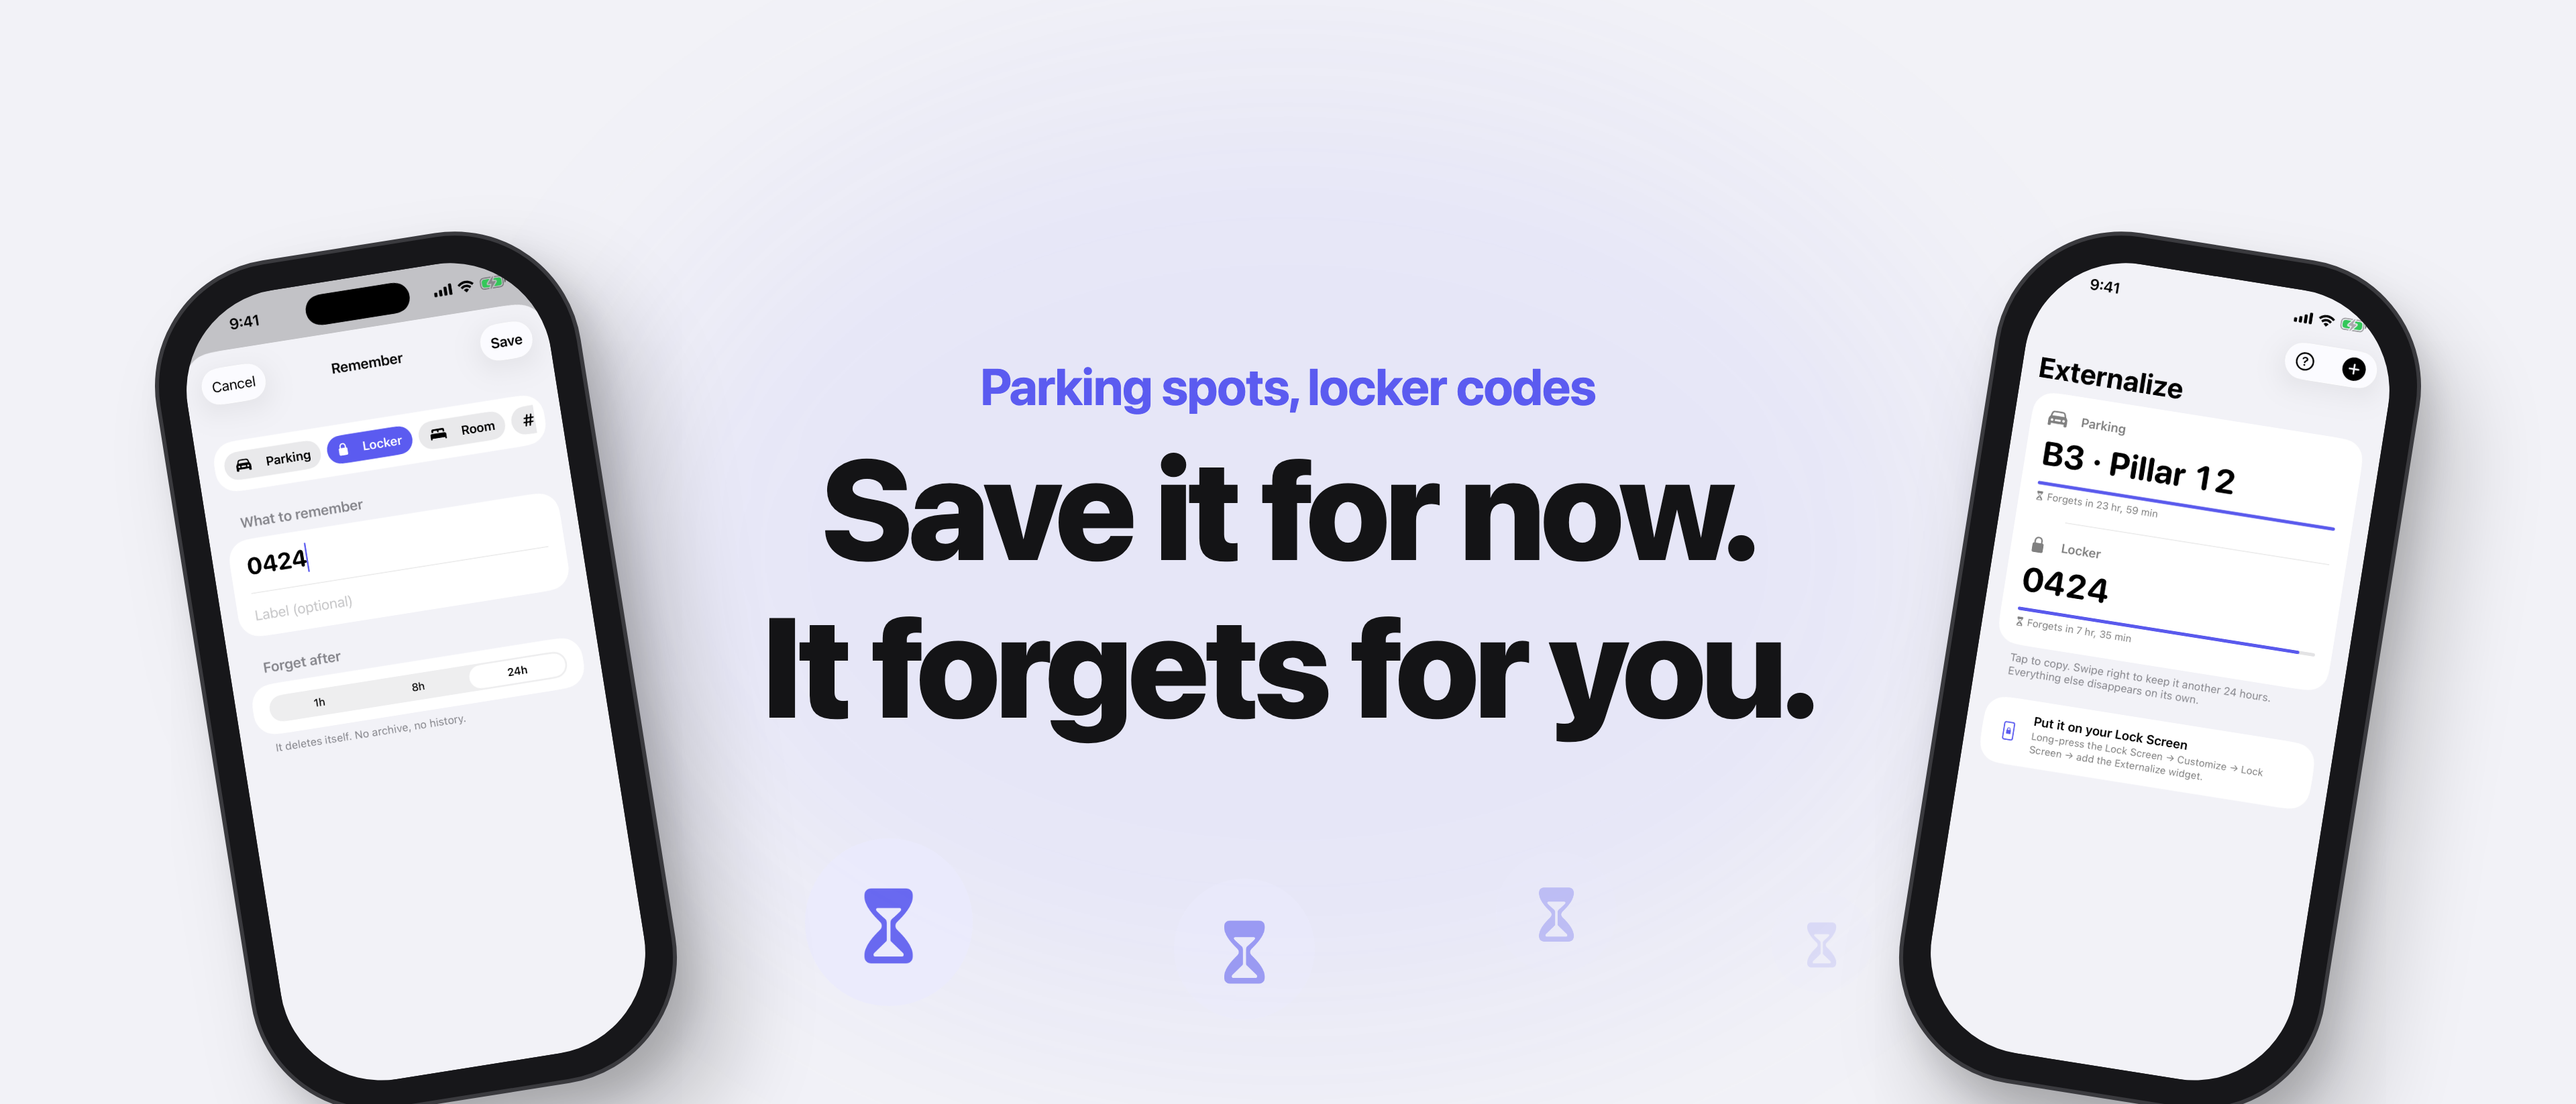
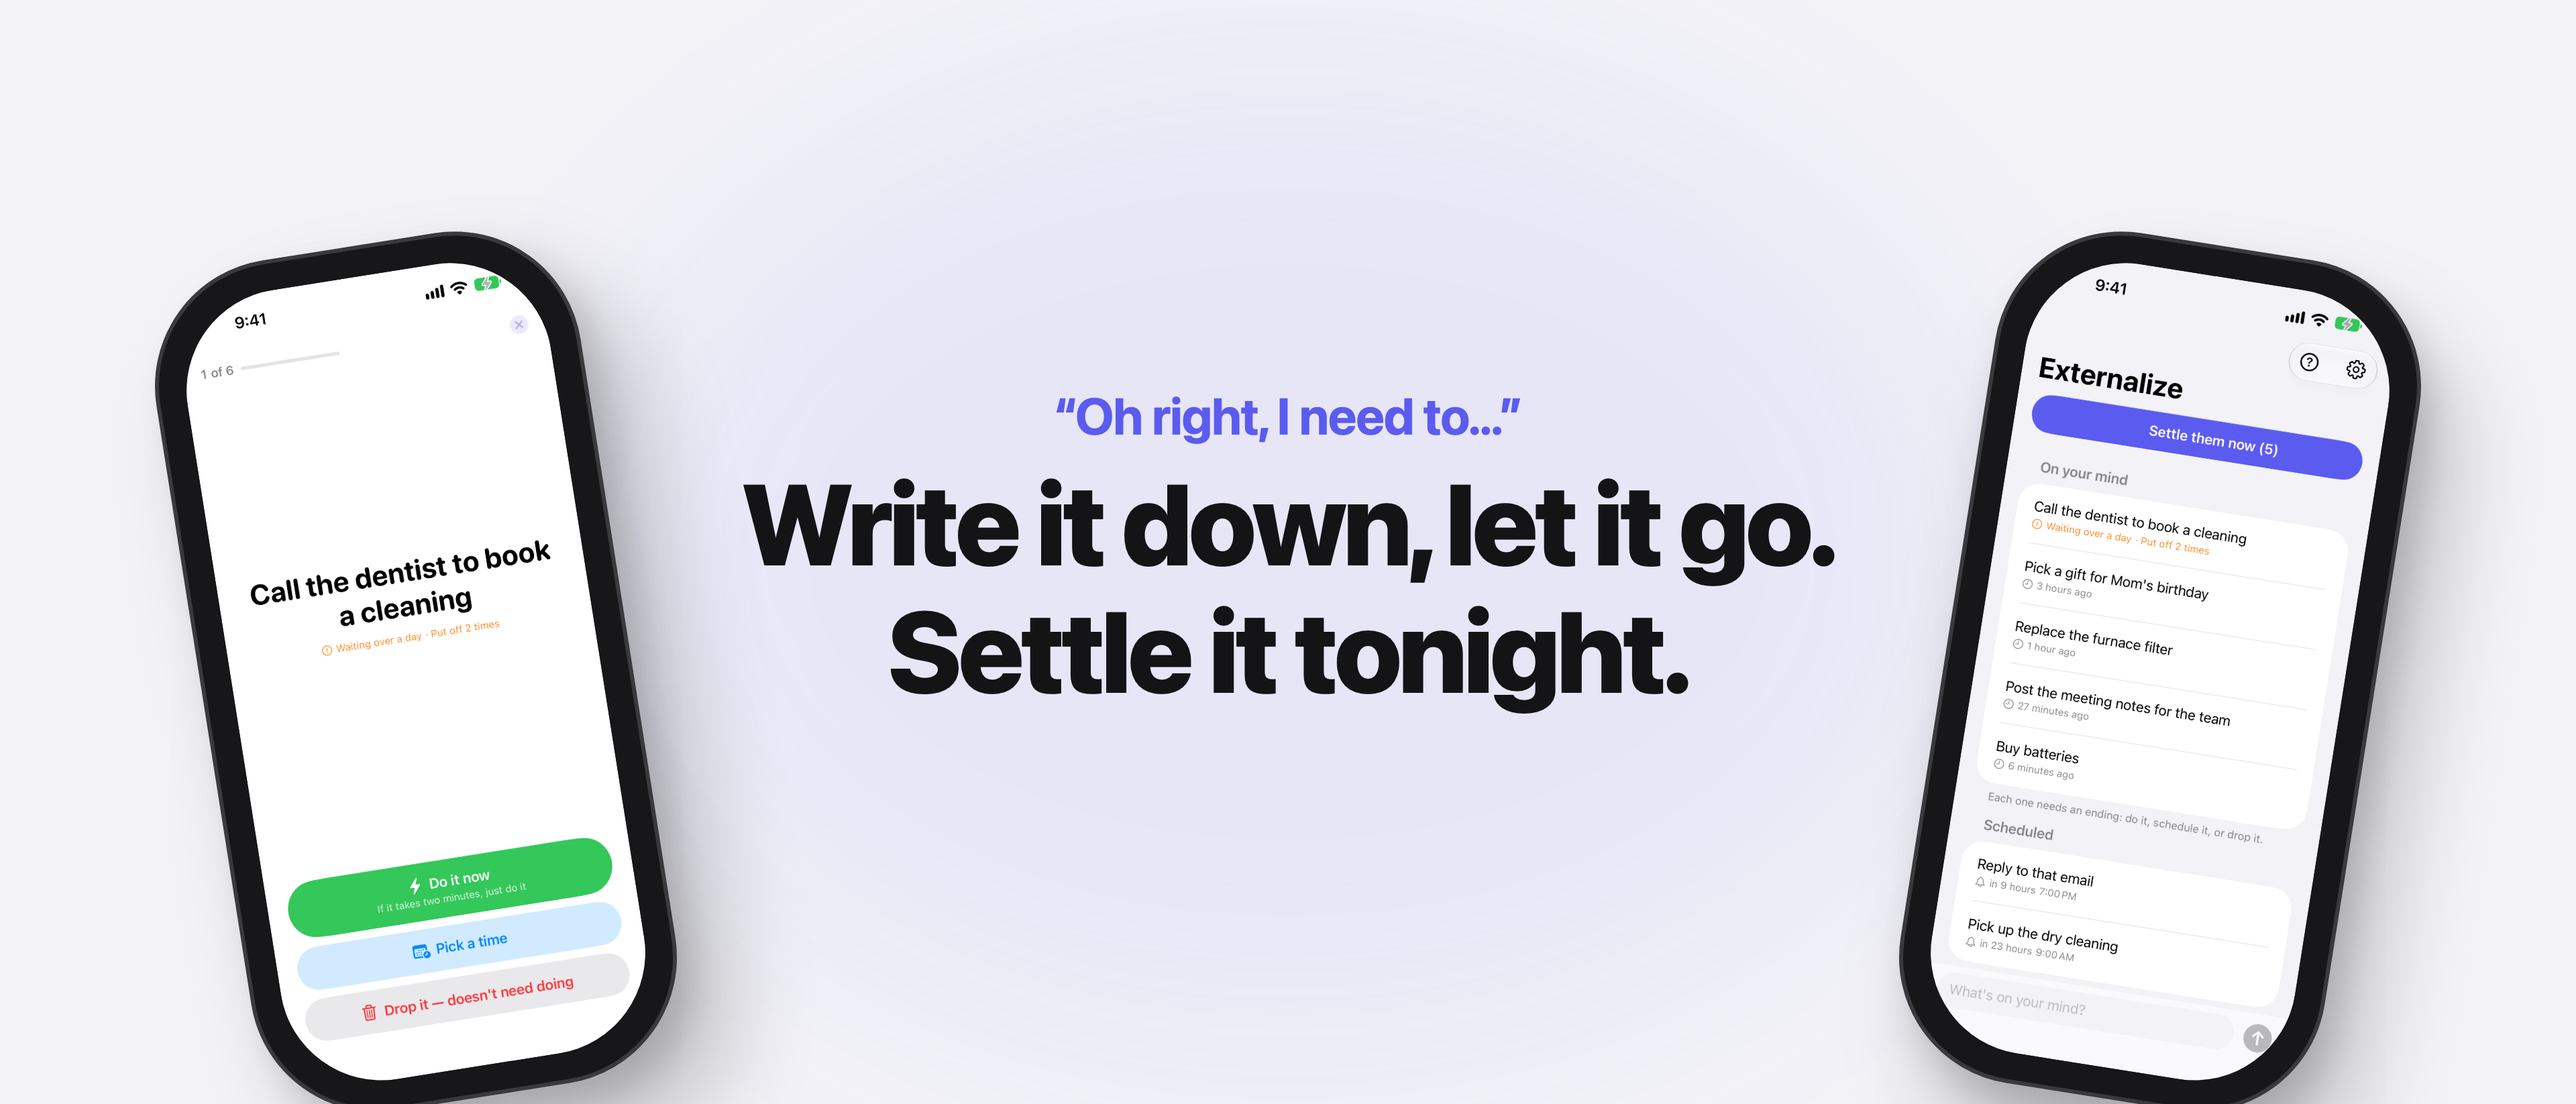
chore(배포): 뇌모리 1.0 자동 배포 준비 — 새 개념(적고 저녁에 끝내기)에 맞춰 한국어 · 영어
앱이 '24시간 뒤 사라지는 메모'에서 '적어서 꺼내 두고 저녁에 하나씩 끝내기'로 바뀐 데 맞춰
스토어 문구(이름·부제·키워드·프로모션·설명)와 1.0 릴리즈노트를 ko · en-US 로 새로 쓴다.
영어 이름의 한글을 빼고(Externalize: Brain Dump), 스크린샷 6장을 두 언어 화면으로 다시 찍어
마케팅 그림과 헤더·검색 결과 그림을 새 개념으로 다시 만든다.
deploy.env(LOCALES=ko,en)와 Release 빌드 게이트를 두고, 시리 단축어 한국어 문구를 확정한다.

diff --git a/scripts/make_marketing_screenshots.py b/scripts/make_marketing_screenshots.py
@@ -19,16 +19,20 @@ W, H = 1242, 2688          # App Store 제출 규격 (6.5")
 # 언어별 (파일명, 레이아웃, 헤드라인, 서브카피)
 SHOTS = {
     "ko": [
-        ("01-list.png",       "hero-bleed",  "24시간 뒤<br>스스로 사라져요", "주차 위치, 사물함, 방 번호만 잠깐"),
-        ("02-add.png",        "left-text",   "몇 초면 저장", "종류 고르고 값만 적으면 끝"),
-        ("03-onboarding.png", "text-bottom", "머리는 비우고<br>앱에 맡기세요", "기억할 필요 없는 것만 담는 메모"),
-        ("04-forget.png",     "dark",        "탭하면 복사<br>밀면 연장", "지울 일도, 쌓일 일도 없어요"),
+        ("01-main.png",     "hero-bleed",  "떠오른 할 일,<br>적고 잊으세요", "“아 맞다, 그거 해야 하는데” 할 때 바로"),
+        ("02-typing.png",   "left-text",   "몇 글자면 끝", "목록도 폴더도 마감일도 없어요"),
+        ("03-review.png",   "text-bottom", "저녁에 하나씩<br>결말을 내요", "하기, 시간 정하기, 버리기 중 하나로"),
+        ("04-schedule.png", "flat-rotate", "미룰 거면<br>시간을 정해요", "그 시간에 다시 알려 드려요"),
+        ("05-donow.png",    "left-text",   "2분이면 끝날 일은<br>지금 바로", "타이머 켜고 하고 오세요"),
+        ("06-clear.png",    "dark",        "목록이 비면<br>머리도 비어요", "쌓여서 썩는 건 없어요"),
     ],
     "en": [
-        ("01-list.png",       "hero-bleed",  "Gone in<br>24 hours", "Parking spots, locker codes, room numbers"),
-        ("02-add.png",        "left-text",   "Saved in seconds", "Pick a type, type the value"),
-        ("03-onboarding.png", "text-bottom", "Let the app<br>hold it", "For what you need for a few hours"),
-        ("04-forget.png",     "dark",        "Tap to copy,<br>swipe to keep", "Nothing to delete. Nothing piles up."),
+        ("01-main.png",     "hero-bleed",  "Get it out<br>of your head", "Write it down the moment it pops up"),
+        ("02-typing.png",   "left-text",   "A few words<br>and you're done", "No lists, no folders, no due dates"),
+        ("03-review.png",   "text-bottom", "Settle them<br>in the evening", "Do it, schedule it, or drop it"),
+        ("04-schedule.png", "flat-rotate", "Not now?<br>Pick a time", "It comes back right when you said"),
+        ("05-donow.png",    "left-text",   "Two minutes?<br>Just do it", "Start the timer and come back"),
+        ("06-clear.png",    "dark",        "Clear list,<br>clear head", "Nothing is left to rot"),
     ],
 }
 
@@ -62,6 +66,12 @@ LAYOUTS = {
 .headline { text-align:center; margin-top:110px; padding:0 70px; }
 .sub { text-align:center; margin-top:42px; padding:0 80px; }
 """,
+    "flat-rotate": """
+.headline { text-align:center; margin-top:250px; padding:0 70px; }
+.sub { text-align:center; margin-top:46px; padding:0 80px; }
+.wrap { position:absolute; left:150px; top:900px; }
+.phone { width:900px; transform:rotate(-5deg); }
+""",
     "dark": """
 body { background:#131316; }
 .headline { color:#f5f5f7; text-align:center; margin-top:250px; padding:0 70px; }
@@ -93,10 +103,21 @@ def render(locale):
         body = body_tpl.format(headline=headline, sub=sub, img=img.as_uri())
         html_path = WORK / f"{locale}-{fname.replace('.png', '.html')}"
         html_path.write_text(HTML.format(base=BASE_CSS, layout=LAYOUTS[layout], body=body), encoding="utf-8")
-        subprocess.run([CHROME, "--headless=new", f"--screenshot={out / fname}",
-                        f"--window-size={W},{H}", "--force-device-scale-factor=1",
-                        "--hide-scrollbars", "--disable-gpu", html_path.as_uri()],
-                       check=True, capture_output=True)
+        # 다른 세션의 Chrome 과 겹치면 가끔 실패하거나 끝나지 않는다 — 새 프로필로 다시 시도한다.
+        for attempt in range(4):
+            (out / fname).unlink(missing_ok=True)
+            try:
+                subprocess.run([CHROME, "--headless=new", f"--screenshot={out / fname}",
+                                f"--window-size={W},{H}", "--force-device-scale-factor=1",
+                                "--hide-scrollbars", "--disable-gpu", "--no-first-run",
+                                f"--user-data-dir={WORK / f'chrome-{attempt}'}", html_path.as_uri()],
+                               capture_output=True, timeout=40)
+            except subprocess.TimeoutExpired:
+                pass
+            if (out / fname).exists() and (out / fname).stat().st_size > 0:
+                break
+        else:
+            sys.exit(f"렌더 실패: {out / fname}")
         print(f"  {out.relative_to(ROOT)}/{fname}")
 
 

diff --git a/scripts/make_creative_assets.py b/scripts/make_creative_assets.py
@@ -33,16 +33,16 @@ SPEC = {
 # (검색에서 본 말이 페이지에서도 이어져야 한다, docs/marketing/ASO_2026-10.md).
 # 눈썹글은 그 나라 검색어다.
 SEARCH = {
-    "ko": ("임시 메모", "24시간 뒤<br>스스로 사라져요", "주차 위치, 사물함, 방 번호만 잠깐"),
-    "en": ("Temporary notes", "Gone in<br>24 hours", "Parking spots, locker codes,<br>room numbers"),
+    "ko": ("할 일 메모", "떠오른 할 일,<br>적고 잊으세요", "저녁에 하나씩 결말을 내요"),
+    "en": ("To-do list", "Get it out<br>of your head", "Settle it all in the evening"),
 }
 
 # 헤더는 처음 온 사람에게 **한 가지 약속**만 한다(Apple: 단일한 생각, 빽빽하지 않게).
 # 앱이 무엇을 해 주는지를 한 문장으로: 한 번 써 두면 그다음은 누르기만 한다.
 # ⚠ 기계번역하지 않는다. 각 언어에서 짧게 읽히는 말로 따로 쓴다. 높임은 그 언어 스크린샷과 맞춘다.
 HEADER = {
-    "ko": ("주차 위치, 사물함 번호", "잠깐 기억할 것만 맡기면<br>알아서 잊어 줘요"),
-    "en": ("Parking spots, locker codes", "Save it for now.<br>It forgets for you."),
+    "ko": ("“아 맞다, 그거 해야 하는데”", "적어 두고 잊으세요.<br>저녁에 하나씩 끝내요."),
+    "en": ("“Oh right, I need to…”", "Write it down, let it go.<br>Settle it tonight."),
 }
 
 # ⚠ 바탕 · 글자색은 기존 스크린샷(make_marketing_screenshots.py)과 같다. 다르면 페이지에서
@@ -102,17 +102,6 @@ def phone(img, left, top, width, rotate=0):
             f'transform:rotate({rotate}deg)"><img src="{img}"></div>')
 
 
-def hourglass(lang, x, y, w, opacity):
-    """온보딩(04-forget)의 모래시계 동그라미를 오려 점점 흐려지게 놓는다 - 시간이 지나면 사라진다는 뜻.
-    안전 영역 밖 장식이다."""
-    cx, cy, cw = 500, 344, 320                    # 1320x2868 화면에서 동그라미 자리
-    k = w / cw
-    img = (RAW / lang / "04-forget.png").as_uri()
-    return (f'<div class="glass" style="left:{x}px;top:{y}px;width:{w}px;height:{w}px;'
-            f'background-image:url({img});background-size:{1320 * k:.0f}px auto;'
-            f'background-position:{-cx * k:.0f}px {-cy * k:.0f}px;opacity:{opacity}"></div>')
-
-
 def search_html(lang):
     W, H, (l, t, r, b) = SPEC["search"]
     eyebrow, headline, sub = SEARCH[lang]
@@ -120,7 +109,7 @@ def search_html(lang):
     col = int(sw * 0.56)
     ph_w = 1040
     ph_left = l + col + int(sw * 0.04)
-    img = (RAW / lang / "01-list.png").as_uri()
+    img = (RAW / lang / "01-main.png").as_uri()
     return f"""
 <div class="glow" style="left:{ph_left - 300}px;top:500px;width:1700px;height:1700px;background:rgba(91,91,240,.12)"></div>
 {phone(img, ph_left, t - 360, ph_w, 0)}
@@ -135,13 +124,10 @@ def header_html(lang):
     W, H, (l, t, r, b) = SPEC["header"]
     eyebrow, headline = HEADER[lang]
     sw, sh = r - l, b - t
-    left_img = (RAW / lang / "02-add.png").as_uri()
-    right_img = (RAW / lang / "01-list.png").as_uri()
-    glasses = [(1200, 1250, 250, .9), (1750, 1310, 210, .55), (2230, 1270, 180, .3), (2640, 1330, 150, .14)]
-    glasses_html = "".join(hourglass(lang, *g) for g in glasses)
+    left_img = (RAW / lang / "03-review.png").as_uri()
+    right_img = (RAW / lang / "01-main.png").as_uri()
     return f"""
 <div class="glow" style="left:{l - 200}px;top:{t - 400}px;width:{sw + 400}px;height:{sh + 800}px;background:rgba(91,91,240,.08)"></div>
-{glasses_html}
 {phone(left_img, 300, 360, 640, -9)}
 {phone(right_img, 2900, 360, 640, 9)}
 <div class="text" style="left:{l}px;top:{t}px;width:{sw}px;height:{sh}px;align-items:center;text-align:center">

diff --git a/APPSTORE.md b/APPSTORE.md
@@ -11,27 +11,42 @@ DeployBar 가 이 파일을 읽어 App Store Connect 의 스토어 페이지를 
 
 ### 부제
 
-24시간 뒤 사라지는 임시 기억
+떠오른 할 일, 적고 잊기
+
+### 프로모션 텍스트
+
+“아 맞다, 그거 해야 하는데.” 떠오른 순간 몇 글자 적고 잊으세요. 저녁에 남은 것만 하나씩 끝내면 머리가 가벼워집니다.
 
 ### 설명
 
-주차한 층, 사물함 번호, 호텔 방 번호. 몇 시간만 기억하면 되는데 그 몇 시간이 제일 잘 안 됩니다.
+“아 맞다, 그거 해야 하는데.” 떠오른 순간 적어 두고 잊으세요.
+저녁에 한 번, 남은 것마다 하기, 시간 정하기, 버리기 중 하나로 결말을 냅니다.
 
-뇌모리는 그런 정보만 담는 메모장입니다. 저장한 메모는 정해진 시간이 지나면 스스로 사라집니다. 지우는 것을 잊어도 목록이 쌓이지 않습니다.
+머릿속에 붙잡고 있는 일은 작아도 자리를 차지합니다. 뇌모리는 그 일을 머리 밖으로 꺼내 두는 곳입니다. 목록도 폴더도 마감일도 없습니다. 몇 글자 적으면 끝입니다.
 
-잠금화면 위젯에 늘 떠 있습니다. 앱을 열지 않아도, 손을 쓰지 않아도 바로 보입니다.
+3초 적고, 잊어버리기
+화면 아래 입력줄에 바로 적습니다.
+잠금화면 위젯을 탭하면 앱이 빈 줄로 열립니다.
+시리에게 “뇌모리에 기억해”라고 말하거나 액션 버튼에 연결해 두면 앱을 열지 않고도 적을 수 있습니다.
 
-기억할 것이 생기면 시리에게 말하면 됩니다. "뇌모리에 기억해" 한마디로 저장됩니다. 액션 버튼에 연결해 두면 버튼 한 번으로 열립니다.
+저녁에 하나씩 끝내기
+남은 게 있으면 밤 9시에 한 번 알려 드립니다. 다 끝냈으면 울리지 않습니다. 알림 시각은 설정에서 바꿀 수 있습니다.
+정리를 시작하면 하나씩 크게 보여 줍니다.
+지금 하기: 2분이면 끝날 일이라면 타이머를 켜고 바로 처리합니다.
+시간 정하기: 1시간 뒤, 오늘 저녁, 내일 아침, 이번 주말, 다음 주 중에 고르거나 직접 시각을 정합니다. 그때 다시 알려 드립니다.
+버리기: 사실 안 해도 되는 일이라면 지웁니다.
 
-메모를 탭하면 바로 복사됩니다. 비밀번호나 번호를 옮겨 적을 일이 없습니다.
+쌓여서 썩는 건 없습니다
+하루 넘게 남은 것과 여러 번 미룬 것은 표시됩니다.
+예약한 일이 돌아오면 알림에서 바로 했어요, 내일 아침, 버리기 중에 고를 수 있습니다.
+앱 아이콘 배지와 위젯에 남은 개수가 보입니다.
+목록이 비면 머리도 비어 있는 겁니다.
 
-만료 시간은 1시간, 8시간, 24시간 중에 고릅니다. 더 필요하면 스와이프 한 번으로 24시간을 더합니다.
-
-저장한 내용은 기기 밖으로 나가지 않습니다. 계정도 로그인도 없습니다.
+모든 기능이 무료입니다. 계정도 로그인도 없고, 적은 내용은 이 기기에만 저장됩니다.
 
 ### 키워드
 
-주차위치,사물함,비밀번호,임시메모,잠금화면,위젯,시리,단축어,메모,망각
+투두,체크리스트,메모,생각정리,머리비우기,브레인덤프,GTD,미루기,알림,위젯,잠금화면,시리,단축어,정리,집중,ADHD,건망증,리마인더,습관,생산성,마음정리
 
 ### 지원 URL
 
@@ -49,31 +64,46 @@ https://m1zz.github.io/Externalize/privacy.html
 
 ### 이름
 
-Externalize (뇌모리)
+Externalize: Brain Dump
 
 ### 부제
 
-Notes that expire on their own
+Jot it down, settle it tonight
+
+### 프로모션 텍스트
+
+"Oh right, I need to..." Get it out of your head in a few words and let it go. Tonight, give everything left an ending, one at a time.
 
 ### 설명
 
-Where you parked. The locker code. Your hotel room number. You only need it for a few hours, and those are exactly the hours your memory gives up on.
+"Oh right, I need to..." Write it down the moment it pops up, then let it go.
+Once in the evening, every item gets an ending: do it, schedule it, or drop it.
 
-Externalize holds that kind of thing and nothing else. Every note deletes itself when its time runs out, so the list never turns into a graveyard of old codes.
+Small things you are trying to hold on to still take up room. Externalize is where they go instead. No lists, no folders, no due dates. A few words and you are done.
 
-It lives on your Lock Screen. The widget keeps what you saved in plain sight, so you never have to open the app to read it back.
+THREE SECONDS, THEN LET GO
+Type into the line at the bottom of the screen.
+Tap the Lock Screen widget and the app opens on a blank line.
+Say "Remember in Externalize" to Siri, or put it on the Action Button, and it is saved without opening the app.
 
-Saving is one sentence to Siri. Map it to the Action Button and it opens with a single press.
+SETTLE THEM IN THE EVENING
+If anything is still open, you get one reminder at 9 PM. Nothing open, no nudge. Change the time in Settings.
+Start settling and items come up one at a time, large and clear.
+Do it now: if it takes two minutes, start the timer and get it done.
+Pick a time: in an hour, this evening, tomorrow morning, this weekend, next week, or any time you choose. It comes back then.
+Drop it: if it does not really need doing, let it go.
 
-Tap a note and it is copied. No squinting, no retyping a password one character at a time.
+NOTHING IS LEFT TO ROT
+Things waiting over a day, and things you keep putting off, are marked.
+When a scheduled item comes back, the notification lets you mark it done, move it to tomorrow morning, or drop it.
+The app icon badge and the widget show how many are left.
+A clear list means a clear head.
 
-Choose one hour, eight hours, or a full day. Need longer? Swipe to add another 24 hours.
-
-Everything stays on your device. No account, no sign-in, nothing to leak.
+Every feature is free. No account, no sign-in, and what you write stays on this device.
 
 ### 키워드
 
-parking,locker,passcode,temporary,notes,widget,lockscreen,siri,shortcut,expire
+todo,checklist,reminder,gtd,procrastination,adhd,focus,inbox,notes,widget,siri,errands,thoughts,task
 
 ### 지원 URL
 

diff --git a/RELEASE_NOTES.md b/RELEASE_NOTES.md
@@ -4,16 +4,16 @@
 
 ### 앱스토어 (한국어)
 
-주차 위치나 사물함 번호를 잠깐 맡겨 두세요
-정한 시간이 지나면 메모가 스스로 사라집니다
-잠금화면 위젯으로 바로 확인할 수 있어요
-시리에게 말하면 앱을 열지 않고 저장돼요
+떠오른 할 일을 몇 글자로 적어 두고 잊으세요
+남은 게 있으면 밤 9시에 한 번 알려 드려요
+하나씩 하기, 시간 정하기, 버리기로 끝내요
+잠금화면 위젯과 시리로 바로 적을 수 있어요
 모든 기능을 무료로 쓸 수 있습니다
 
 ### App Store (English)
 
-Keep a parking spot or locker code handy
-Notes delete themselves when time is up
-See them on your Lock Screen widget
-Save with Siri without opening the app
+Jot down what pops up, then let go
+One reminder at 9 PM if anything is left
+Do it, schedule it, or drop it
+Write from your Lock Screen or Siri
 Every feature is free
